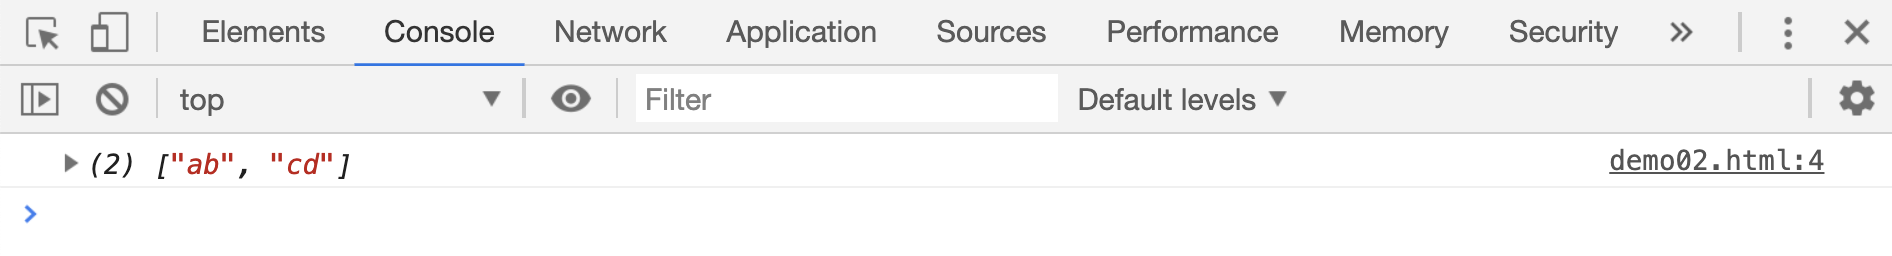
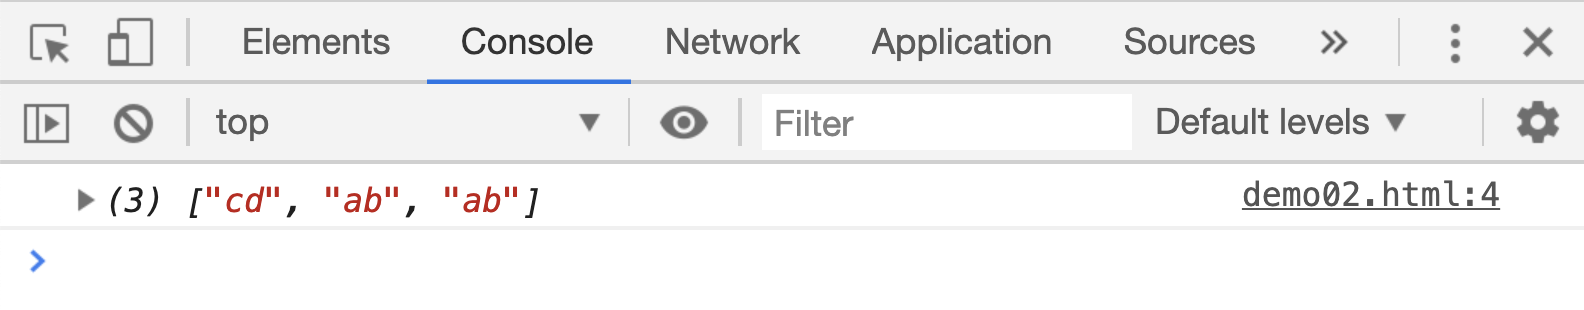
修改部分错误

diff --git a/JavaScript/20190416100859-正则表达式5/demo/demo03.html b/JavaScript/20190416100859-正则表达式5/demo/demo03.html
@@ -2,6 +2,6 @@
     var res;
 
     // 判断字符串中是是否有字符ab，且后面紧跟着一个d或者e字符：
-    res = "abc abd abe".match(/ab[d|e]/g);
+    res = "abc abd abe".match(/ab(d|e)/g);
     console.log(res);
 </script>

diff --git a/JavaScript/20190416100859-正则表达式5/demo/demo02.html b/JavaScript/20190416100859-正则表达式5/demo/demo02.html
@@ -1,5 +1,5 @@
 <script>
     var res;
-    res = "abcd".match(/ab|cd/g);
+    res = "acd abd abd".match(/(ab|cd|bd)/g);
     console.log(res);
 </script>

diff --git a/JavaScript/20190416100859-正则表达式5/readme.md b/JavaScript/20190416100859-正则表达式5/readme.md
@@ -17,12 +17,12 @@
 
 ![](./images/01.png)
 
-上面代码的匹配项是完整的`abcd`，如果在`b`和`c`之前添加一个`|`，意思就不同了，`ab`和`cd`将作为一个整体去匹配，表示判断字符串中是否包含字符`ab`或者字符`cd`:
+上面代码的匹配项是完整的`abcd`，如果在`b`和`c`之前添加一个`|`，意思就不同了，表示判断字符串中是否包含字符`ab`或者字符`cd`:
 
 ```html
 <script>
     var res;
-    res = "abcd".match(/ab|cd/g);
+    res = "acd abd abd".match(/ab|cd/g);
     console.log(res);
 </script>
 ```
@@ -31,14 +31,14 @@
 
 ![](./images/02.png)
 
-所以`|`通常情况下会放在`[]`中使用，比如：
+所以`|`通常也会会放在`()`中使用，比如：
 
 ```html
 <script>
     var res;
 
     // 判断字符串中是是否有字符ab，且后面紧跟着一个d或者e字符：
-    res = "abc abd abe".match(/ab[d|e]/g);
+    res = "abc abd abe".match(/ab(d|e)/g);
     console.log(res);
 </script>
 ```
